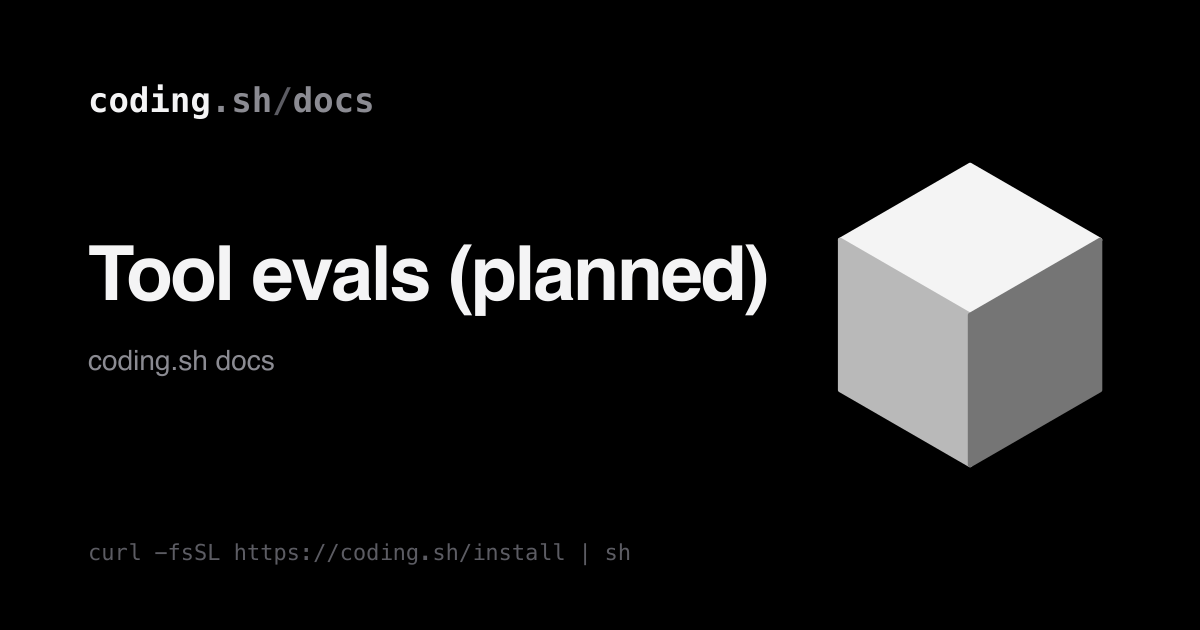
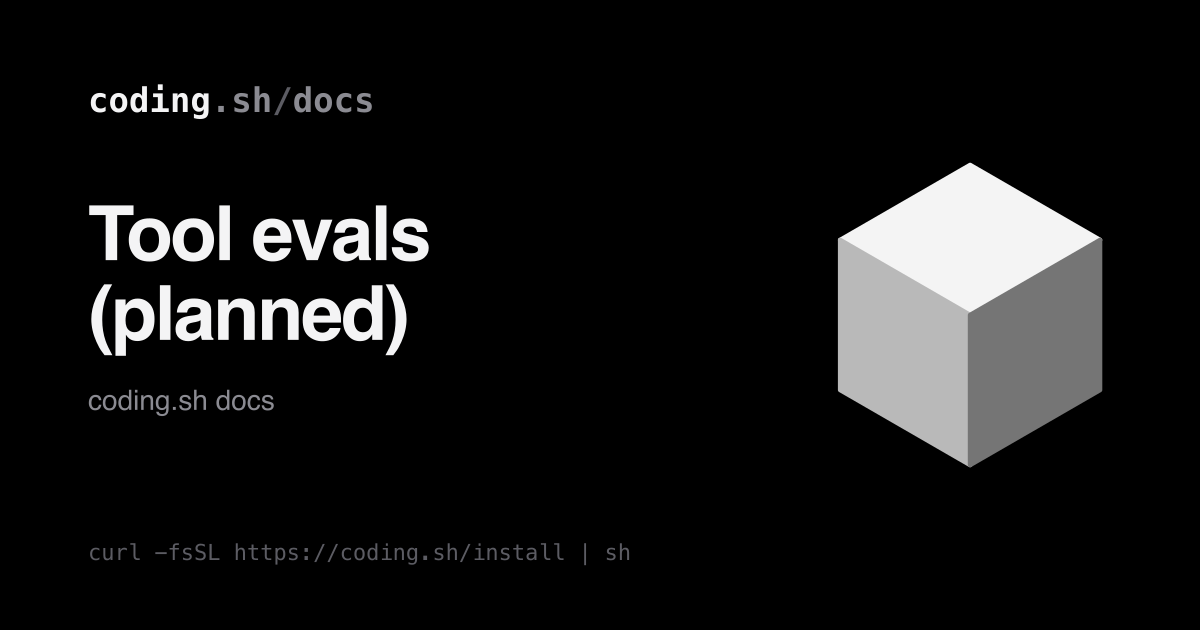
feat(site): a link preview image and a short, unique title and description for every page, FAQ markup, and a build check that fails on broken links or metadata

Changed region(s): [[0.0617, 0.3016, 0.6475, 0.6635]]

diff --git a/apps/site/src/lib/schema.ts b/apps/site/src/lib/schema.ts
@@ -81,3 +81,47 @@ export function techArticleSchema(page: { path: string; title: string; summary: 
     about: { "@id": `${SITE_URL}/#software` },
   };
 }
+
+/**
+ * A meta description of at most `max` characters: whole sentences while they
+ * fit, else whole words and an ellipsis. Search results cut longer ones anyway.
+ */
+export function clampDescription(text: string, max = 155): string {
+  const t = text.replace(/\s+/g, " ").trim();
+  if (t.length <= max) return t;
+  let out = "";
+  for (const s of t.match(/[^.!?]+[.!?]+(\s|$)|[^.!?]+$/g) ?? []) {
+    if ((out + s).trimEnd().length > max) break;
+    out += s;
+  }
+  if (out.trim().length >= max * 0.6) return out.trim();
+  const cut = t.slice(0, max - 1);
+  return `${cut.slice(0, cut.lastIndexOf(" ")).replace(/[,;:]$/, "")}…`;
+}
+
+/** Plain text from a fragment of our own HTML (tags dropped, entities decoded). */
+export function plainText(html: string): string {
+  return html
+    .replace(/<[^>]+>/g, "")
+    .replace(/&lt;/g, "<")
+    .replace(/&gt;/g, ">")
+    .replace(/&quot;/g, '"')
+    .replace(/&#39;/g, "'")
+    .replace(/&amp;/g, "&")
+    .replace(/\s+/g, " ")
+    .trim();
+}
+
+// Questions the page itself shows, word for word: the home FAQ, /docs/faq, and
+// the "Questions" section of a docs page (DocsLayout finds it).
+export function faqSchema(items: { q: string; a: string }[]) {
+  return {
+    "@context": "https://schema.org",
+    "@type": "FAQPage",
+    mainEntity: items.map((item) => ({
+      "@type": "Question",
+      name: plainText(item.q),
+      acceptedAnswer: { "@type": "Answer", text: plainText(item.a) },
+    })),
+  };
+}

diff --git a/CHANGELOG.md b/CHANGELOG.md
@@ -14,6 +14,7 @@ coding.sh runs on Windows, and CI tests it there.
 ### Added
 
 - **Docs.** Use-case pages for tracking Claude Code and Codex cost, replaying a session, testing a CLAUDE.md, AGENTS.md or skill change, building evals from failures, self-hosting, and logging model calls through the proxy. Comparison pages for Langfuse, LangSmith, Braintrust, AgentOps, Laminar and ccusage, each with a feature table, where the other tool is the better choice, and its sources. [Compare](https://coding.sh/docs/compare).
+- **Site.** Every docs page has its own link preview image, the home page and FAQ carry FAQ markup, and the site build fails on a missing or too-long title or description, a wrong canonical URL, or a link to a page that doesn't exist.
 
 - **Improve.** `coding.sh improve` lists what goes wrong most in this repo's sessions (failure flags, and any command failing the same way in two or more sessions), each with an example session, the CLAUDE.md or AGENTS.md line that fixes it and the next commands. `improve fix N` adds the line, uncommitted. `improve check` compares the sessions before and after each committed CLAUDE.md, AGENTS.md, rule or skill change, with how often the agent follows each new line, says Helped, Regressed, No clear change or Too early, and exits 1 on a regression; `--watch` re-checks as sessions arrive. No API key needed. [Improve your agent every week](https://github.com/jackulau/coding.sh/blob/main/docs/guides/improve.md).
 - **MCP.** `improve` and `harness_changes` tools, and `improve` and `did-it-help` prompts, run the same loop from inside your agent: what to fix first, and whether a CLAUDE.md change helped, without a shell. [Improve your agent every week](https://github.com/jackulau/coding.sh/blob/main/docs/guides/improve.md#from-inside-your-agent).
